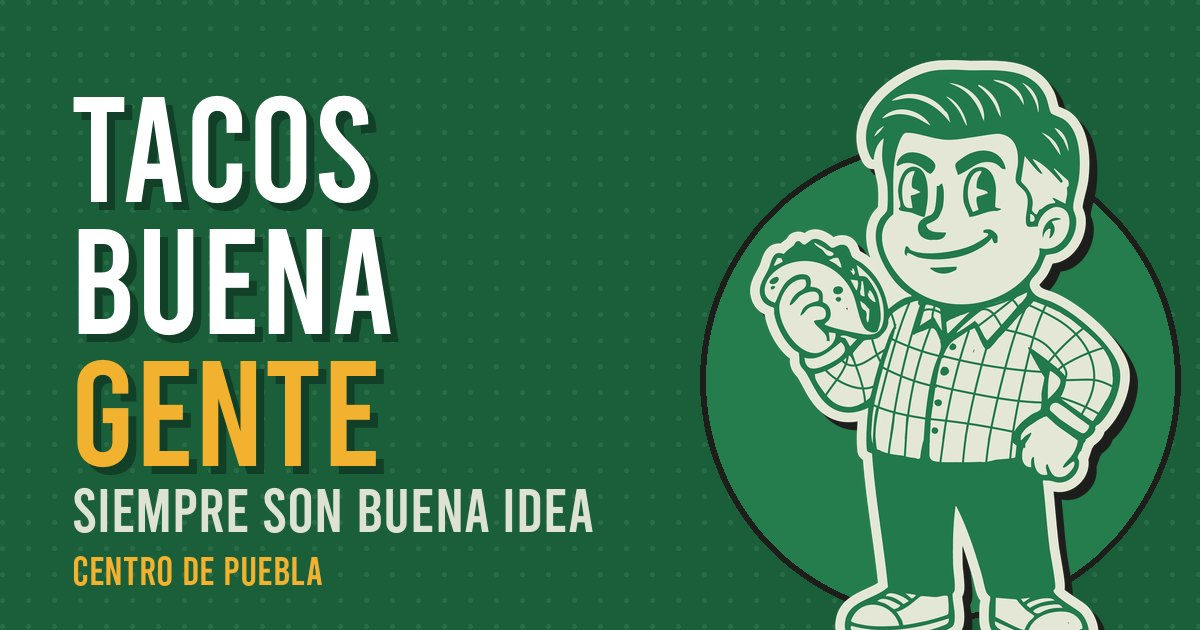
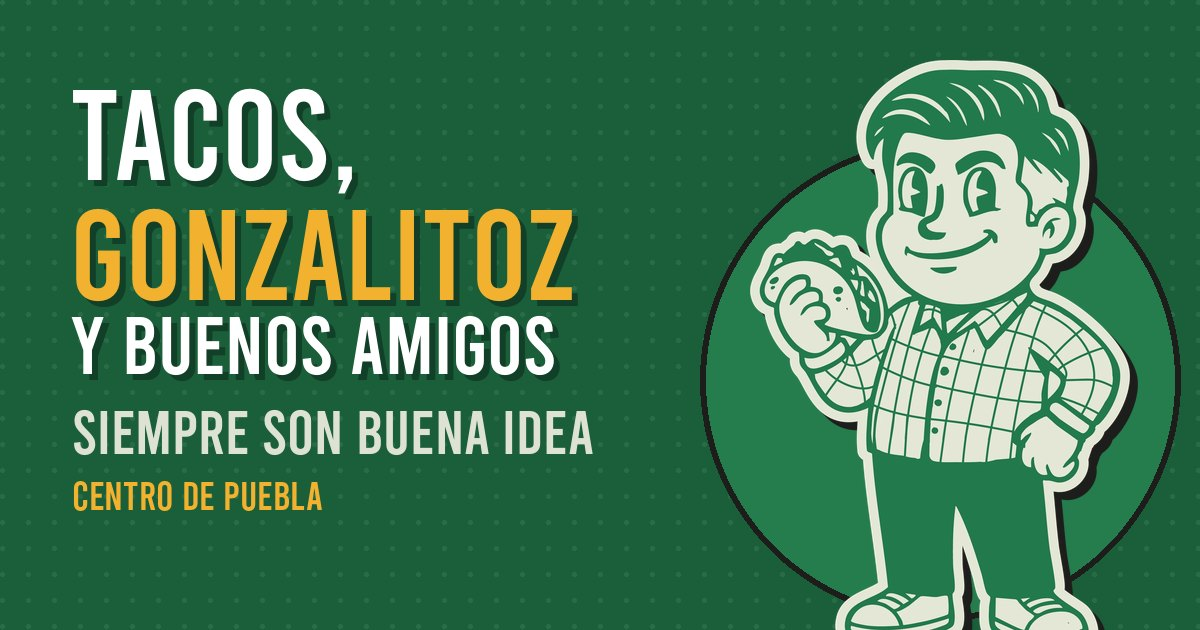
Barra flotante verde, nuevo eslogan, menú desplegable, fotos del local sin textos

Changed region(s): [[0.0617, 0.1206, 0.4933, 0.8444], [0.0617, 0.8746, 0.2775, 0.9349]]

diff --git a/index.html b/index.html
@@ -3,7 +3,7 @@
 <head>
 <meta charset="utf-8">
 <meta name="viewport" content="width=device-width, initial-scale=1, viewport-fit=cover">
-<title>GONZALITOZ · Tacos buena gente en Puebla</title>
+<title>GONZALITOZ · Taquería en el Centro de Puebla</title>
 <meta name="description" content="Taquería GONZALITOZ en el Centro de Puebla: tacos y cemitas con la receta tradicional y sabores para atreverte. Argentino, asada, chile quemado, esquinero y sierra.">
 <meta name="theme-color" content="#1B5E3A">
 <link rel="canonical" href="https://gonzalitoz.online/">
@@ -11,7 +11,7 @@
 <link rel="apple-touch-icon" href="img/apple-touch-icon.png">
 <meta property="og:type" content="restaurant">
 <meta property="og:site_name" content="GONZALITOZ">
-<meta property="og:title" content="GONZALITOZ · Tacos buena gente">
+<meta property="og:title" content="GONZALITOZ · Tacos, GONZALITOZ y buenos amigos siempre son buena idea">
 <meta property="og:description" content="Tacos y cemitas en el Centro de Puebla. Siempre son buena idea.">
 <meta property="og:url" content="https://gonzalitoz.online/">
 <meta property="og:image" content="https://gonzalitoz.online/img/compartir.jpg">
@@ -20,23 +20,24 @@
 <meta property="og:locale" content="es_MX">
 <meta name="twitter:card" content="summary_large_image">
 <link rel="preload" href="fuentes/bebas-neue.woff2" as="font" type="font/woff2" crossorigin>
-<link rel="stylesheet" href="css/sitio.css?v=0c2567af">
-<script type="application/ld+json">{"@context": "https://schema.org", "@type": "Restaurant", "name": "GONZALITOZ Taquería", "url": "https://gonzalitoz.online/", "image": "https://gonzalitoz.online/img/compartir.jpg", "logo": "https://gonzalitoz.online/img/insignia.webp", "slogan": "Tacos buena gente. Siempre son buena idea.", "telephone": "+52 221 281 8023", "priceRange": "$", "openingHoursSpecification": [{"@type": "OpeningHoursSpecification", "opens": "10:00", "closes": "17:30", "dayOfWeek": ["Monday", "Tuesday", "Wednesday", "Friday", "Saturday", "Sunday"]}], "servesCuisine": ["Mexicana", "Tacos", "Cemitas"], "hasMap": "https://maps.app.goo.gl/9LSrEYEsU7V94Uzn7", "sameAs": ["https://www.instagram.com/gonzalitoztaqueria/", "https://www.tiktok.com/@gonzalitoz.taquer"], "address": {"@type": "PostalAddress", "streetAddress": "Calle 9 Sur 707, Local 4", "addressLocality": "Heroica Puebla de Zaragoza", "addressRegion": "Puebla", "postalCode": "72000", "addressCountry": "MX"}, "hasMenu": {"@type": "Menu", "hasMenuSection": [{"@type": "MenuSection", "name": "Tacos", "hasMenuItem": [{"@type": "MenuItem", "name": "Taco Argentino", "description": "Chorizo argentino asado con guacamole, cebolla, cilantro y chimichurri.", "offers": {"@type": "Offer", "price": "30.00", "priceCurrency": "MXN"}}, {"@type": "MenuItem", "name": "Taco Asada", "description": "Carne de res asada con guacamole, cebolla y cilantro.", "offers": {"@type": "Offer", "price": "34.00", "priceCurrency": "MXN"}}, {"@type": "MenuItem", "name": "Taco Chile quemado", "description": "Chuleta de cerdo en salsa de chile quemado, con aderezo de cacahuate y cebolla encurtida.", "offers": {"@type": "Offer", "price": "27.00", "priceCurrency": "MXN"}}, {"@type": "MenuItem", "name": "Taco Esquinero", "description": "Chuleta de cerdo asada con guacamole, cebolla y cilantro, en tortilla mediana.", "offers": {"@type": "Offer", "price": "27.00", "priceCurrency": "MXN"}}, {"@type": "MenuItem", "name": "Taco Sierra", "description": "Chuleta de cerdo asada con papa, aderezo de cacahuate y salsa macha.", "offers": {"@type": "Offer", "price": "30.00", "priceCurrency": "MXN"}}]}, {"@type": "MenuSection", "name": "Cemitas", "hasMenuItem": [{"@type": "MenuItem", "name": "Cemita Argentino", "description": "Chorizo argentino asado con mayonesa, cebolla encurtida y chimichurri.", "offers": {"@type": "Offer", "price": "45.00", "priceCurrency": "MXN"}}, {"@type": "MenuItem", "name": "Cemita Asada", "description": "Carne de res asada con guacamole, cebolla y cilantro.", "offers": {"@type": "Offer", "price": "48.00", "priceCurrency": "MXN"}}, {"@type": "MenuItem", "name": "Cemita Chile quemado", "description": "Chuleta de cerdo en salsa de chile quemado, con aderezo de cacahuate y cebolla encurtida.", "offers": {"@type": "Offer", "price": "45.00", "priceCurrency": "MXN"}}, {"@type": "MenuItem", "name": "Cemita Esquinero", "description": "Chuleta de cerdo asada con guacamole, cebolla y cilantro.", "offers": {"@type": "Offer", "price": "45.00", "priceCurrency": "MXN"}}, {"@type": "MenuItem", "name": "Cemita Sierra", "description": "Chuleta de cerdo asada con papa, aderezo de cacahuate y salsa macha.", "offers": {"@type": "Offer", "price": "48.00", "priceCurrency": "MXN"}}]}]}}</script>
+<link rel="stylesheet" href="css/sitio.css?v=a0d848a5">
+<script type="application/ld+json">{"@context": "https://schema.org", "@type": "Restaurant", "name": "GONZALITOZ Taquería", "url": "https://gonzalitoz.online/", "image": "https://gonzalitoz.online/img/compartir.jpg", "logo": "https://gonzalitoz.online/img/insignia.webp", "slogan": "Tacos, GONZALITOZ y buenos amigos siempre son buena idea.", "telephone": "+52 221 281 8023", "priceRange": "$", "openingHoursSpecification": [{"@type": "OpeningHoursSpecification", "opens": "10:00", "closes": "17:30", "dayOfWeek": ["Monday", "Tuesday", "Wednesday", "Friday", "Saturday", "Sunday"]}], "servesCuisine": ["Mexicana", "Tacos", "Cemitas"], "hasMap": "https://maps.app.goo.gl/9LSrEYEsU7V94Uzn7", "sameAs": ["https://www.instagram.com/gonzalitoztaqueria/", "https://www.tiktok.com/@gonzalitoz.taquer"], "address": {"@type": "PostalAddress", "streetAddress": "Calle 9 Sur 707, Local 4", "addressLocality": "Heroica Puebla de Zaragoza", "addressRegion": "Puebla", "postalCode": "72000", "addressCountry": "MX"}, "hasMenu": {"@type": "Menu", "hasMenuSection": [{"@type": "MenuSection", "name": "Tacos", "hasMenuItem": [{"@type": "MenuItem", "name": "Taco Argentino", "description": "Chorizo argentino asado con guacamole, cebolla, cilantro y chimichurri.", "offers": {"@type": "Offer", "price": "30.00", "priceCurrency": "MXN"}}, {"@type": "MenuItem", "name": "Taco Asada", "description": "Carne de res asada con guacamole, cebolla y cilantro.", "offers": {"@type": "Offer", "price": "34.00", "priceCurrency": "MXN"}}, {"@type": "MenuItem", "name": "Taco Chile quemado", "description": "Chuleta de cerdo en salsa de chile quemado, con aderezo de cacahuate y cebolla encurtida.", "offers": {"@type": "Offer", "price": "27.00", "priceCurrency": "MXN"}}, {"@type": "MenuItem", "name": "Taco Esquinero", "description": "Chuleta de cerdo asada con guacamole, cebolla y cilantro, en tortilla mediana.", "offers": {"@type": "Offer", "price": "27.00", "priceCurrency": "MXN"}}, {"@type": "MenuItem", "name": "Taco Sierra", "description": "Chuleta de cerdo asada con papa, aderezo de cacahuate y salsa macha.", "offers": {"@type": "Offer", "price": "30.00", "priceCurrency": "MXN"}}]}, {"@type": "MenuSection", "name": "Cemitas", "hasMenuItem": [{"@type": "MenuItem", "name": "Cemita Argentino", "description": "Chorizo argentino asado con mayonesa, cebolla encurtida y chimichurri.", "offers": {"@type": "Offer", "price": "45.00", "priceCurrency": "MXN"}}, {"@type": "MenuItem", "name": "Cemita Asada", "description": "Carne de res asada con guacamole, cebolla y cilantro.", "offers": {"@type": "Offer", "price": "48.00", "priceCurrency": "MXN"}}, {"@type": "MenuItem", "name": "Cemita Chile quemado", "description": "Chuleta de cerdo en salsa de chile quemado, con aderezo de cacahuate y cebolla encurtida.", "offers": {"@type": "Offer", "price": "45.00", "priceCurrency": "MXN"}}, {"@type": "MenuItem", "name": "Cemita Esquinero", "description": "Chuleta de cerdo asada con guacamole, cebolla y cilantro.", "offers": {"@type": "Offer", "price": "45.00", "priceCurrency": "MXN"}}, {"@type": "MenuItem", "name": "Cemita Sierra", "description": "Chuleta de cerdo asada con papa, aderezo de cacahuate y salsa macha.", "offers": {"@type": "Offer", "price": "48.00", "priceCurrency": "MXN"}}]}]}}</script>
 </head>
 <body>
 <a class="saltar" href="#especialidades">Saltar al menú</a>
 
 <header class="barra" id="barra">
   <div class="barra-in">
-    <a class="barra-logo" href="#inicio" aria-label="GONZALITOZ, inicio"><img src="img/wordmark.webp" alt="GONZALITOZ Taquería" width="180" height="44"></a>
+    <a class="barra-logo" href="#inicio" aria-label="GONZALITOZ, inicio"><img src="img/wordmark-claro.webp" alt="GONZALITOZ Taquería" width="180" height="44"></a>
     <nav class="barra-nav" id="nav" aria-label="Secciones">
+      <span class="barra-marca" id="barraMarca" aria-hidden="true"></span>
       <a href="#especialidades">Especialidades</a>
       <a href="#menu">Menú</a>
       <a href="#nosotros">Nosotros</a>
       <a href="#local">El local</a>
       <a href="#visitanos">Visítanos</a>
     </nav>
-    <a class="btn btn-dorado barra-cta" href="https://maps.app.goo.gl/9LSrEYEsU7V94Uzn7" target="_blank" rel="noopener">Cómo llegar</a>
+    <a class="btn btn-dorado barra-cta" href="#menu">Ver menú</a>
     <button class="barra-menu" id="botonMenu" type="button" aria-expanded="false" aria-controls="nav" aria-label="Abrir menú"><span></span><span></span><span></span></button>
   </div>
 </header>
@@ -47,7 +48,7 @@
     <div class="portada-in">
       <div class="portada-txt">
         <p class="eyebrow">Taquería · Centro de Puebla</p>
-        <h1 class="titular"><span class="linea">Tacos</span> <span class="linea">buena</span> <span class="linea linea-dorada">gente</span></h1>
+        <h1 class="titular"><span class="linea">Tacos,</span> <span class="linea linea-dorada">GONZALITOZ</span> <span class="linea linea-chica">y buenos amigos</span></h1>
         <p class="lema">Siempre son buena idea.</p>
         <p class="intro">Tacos y cemitas con la receta de siempre y cinco sabores para atreverte: argentino, asada, chile quemado, esquinero y sierra.</p>
         <div class="acciones">
@@ -58,7 +59,7 @@
       <div class="portada-arte" aria-hidden="true">
         <div class="mancha"></div>
         <img class="taquero" src="img/taquero.webp" alt="" width="600" height="948">
-        <span class="globo">¡Buena gente!</span>
+        <span class="globo">¡Date un antojo!</span>
         <img class="sticker sticker-a" src="img/p/taco-sierra-600.webp" alt="" width="300" height="300">
         <img class="sticker sticker-b" src="img/p/cemita-argentina-600.webp" alt="" width="300" height="300">
       </div>
@@ -66,7 +67,7 @@
   </section>
 
   <div class="cinta" aria-hidden="true">
-    <div class="cinta-pista"><span>Tacos buena gente<img src="img/isotipo.webp" alt="" width="30" height="30"></span><span>Siempre son buena idea<img src="img/isotipo.webp" alt="" width="30" height="30"></span><span>Argentino<img src="img/isotipo.webp" alt="" width="30" height="30"></span><span>Asada<img src="img/isotipo.webp" alt="" width="30" height="30"></span><span>Chile quemado<img src="img/isotipo.webp" alt="" width="30" height="30"></span><span>Esquinero<img src="img/isotipo.webp" alt="" width="30" height="30"></span><span>Sierra<img src="img/isotipo.webp" alt="" width="30" height="30"></span><span>Tacos buena gente<img src="img/isotipo.webp" alt="" width="30" height="30"></span><span>Siempre son buena idea<img src="img/isotipo.webp" alt="" width="30" height="30"></span><span>Argentino<img src="img/isotipo.webp" alt="" width="30" height="30"></span><span>Asada<img src="img/isotipo.webp" alt="" width="30" height="30"></span><span>Chile quemado<img src="img/isotipo.webp" alt="" width="30" height="30"></span><span>Esquinero<img src="img/isotipo.webp" alt="" width="30" height="30"></span><span>Sierra<img src="img/isotipo.webp" alt="" width="30" height="30"></span></div>
+    <div class="cinta-pista"><span>Tacos, GONZALITOZ y buenos amigos<img src="img/isotipo.webp" alt="" width="30" height="30"></span><span>Siempre son buena idea<img src="img/isotipo.webp" alt="" width="30" height="30"></span><span>Argentino<img src="img/isotipo.webp" alt="" width="30" height="30"></span><span>Asada<img src="img/isotipo.webp" alt="" width="30" height="30"></span><span>Chile quemado<img src="img/isotipo.webp" alt="" width="30" height="30"></span><span>Esquinero<img src="img/isotipo.webp" alt="" width="30" height="30"></span><span>Sierra<img src="img/isotipo.webp" alt="" width="30" height="30"></span><span>Tacos, GONZALITOZ y buenos amigos<img src="img/isotipo.webp" alt="" width="30" height="30"></span><span>Siempre son buena idea<img src="img/isotipo.webp" alt="" width="30" height="30"></span><span>Argentino<img src="img/isotipo.webp" alt="" width="30" height="30"></span><span>Asada<img src="img/isotipo.webp" alt="" width="30" height="30"></span><span>Chile quemado<img src="img/isotipo.webp" alt="" width="30" height="30"></span><span>Esquinero<img src="img/isotipo.webp" alt="" width="30" height="30"></span><span>Sierra<img src="img/isotipo.webp" alt="" width="30" height="30"></span></div>
   </div>
 
   <!-- ESPECIALIDADES -->
@@ -91,10 +92,10 @@
     <div class="envoltura">
       <div class="seccion-cab seccion-cab-clara">
         <p class="eyebrow">El menú</p>
-        <h2 class="h2">Lo que hay en el pizarrón</h2>
-        <p class="sub">Precios en pesos mexicanos, con IVA incluido.</p>
+        <h2 class="h2">¿Qué se te antoja?</h2>
+        <p class="sub">Toca cada sección para ver sus platillos. Precios en pesos mexicanos, con IVA incluido.</p>
       </div>
-      <div class="pizarron"><div class="columna"><h3>Tacos</h3><p class="columna-nota">Todos se pueden pedir con 2 ingredientes, al mismo precio.</p><div class="platillo"><span class="platillo-n">Argentino</span><span class="platillo-p">$30</span><span class="platillo-d">Chorizo argentino asado con guacamole, cebolla, cilantro y chimichurri.</span></div><div class="platillo"><span class="platillo-n">Asada</span><span class="platillo-p">$34</span><span class="platillo-d">Carne de res asada con guacamole, cebolla y cilantro.</span></div><div class="platillo"><span class="platillo-n">Chile quemado</span><span class="platillo-p">$27</span><span class="platillo-d">Chuleta de cerdo en salsa de chile quemado, con aderezo de cacahuate y cebolla encurtida.</span></div><div class="platillo"><span class="platillo-n">Esquinero</span><span class="platillo-p">$27</span><span class="platillo-d">Chuleta de cerdo asada con guacamole, cebolla y cilantro, en tortilla mediana.</span></div><div class="platillo"><span class="platillo-n">Sierra</span><span class="platillo-p">$30</span><span class="platillo-d">Chuleta de cerdo asada con papa, aderezo de cacahuate y salsa macha.</span></div></div><div class="columna"><h3>Cemitas</h3><p class="columna-nota">Todos se pueden pedir con 2 ingredientes, al mismo precio.</p><div class="platillo"><span class="platillo-n">Argentino</span><span class="platillo-p">$45</span><span class="platillo-d">Chorizo argentino asado con mayonesa, cebolla encurtida y chimichurri.</span></div><div class="platillo"><span class="platillo-n">Asada</span><span class="platillo-p">$48</span><span class="platillo-d">Carne de res asada con guacamole, cebolla y cilantro.</span></div><div class="platillo"><span class="platillo-n">Chile quemado</span><span class="platillo-p">$45</span><span class="platillo-d">Chuleta de cerdo en salsa de chile quemado, con aderezo de cacahuate y cebolla encurtida.</span></div><div class="platillo"><span class="platillo-n">Esquinero</span><span class="platillo-p">$45</span><span class="platillo-d">Chuleta de cerdo asada con guacamole, cebolla y cilantro.</span></div><div class="platillo"><span class="platillo-n">Sierra</span><span class="platillo-p">$48</span><span class="platillo-d">Chuleta de cerdo asada con papa, aderezo de cacahuate y salsa macha.</span></div></div><div class="columna"><h3>Para acompañar</h3><div class="platillo"><span class="platillo-n">Papas fritas</span><span class="platillo-p">$25</span><span class="platillo-d">La orden, para acompañar.</span></div><div class="platillo"><span class="platillo-n">Aguas frescas</span><span class="platillo-p">$35</span><span class="platillo-d">Pregunta por los sabores del día.</span></div><div class="platillo"><span class="platillo-n">Refrescos</span><span class="platillo-p">$35</span><span class="platillo-d">Varios sabores.</span></div></div></div>
+      <div class="carta" id="carta"><details class="cat" open><summary><span class="cat-n">Argentino</span><span class="cat-desde">desde <b>$30</b></span><span class="cat-flecha" aria-hidden="true"></span></summary><div class="cat-platos"><article class="plato"><div class="plato-foto"><img src="img/p/taco-argentino-600.webp" alt="Taco Argentino" loading="lazy" width="600" height="600"><span class="plato-precio">$30</span></div><div class="plato-cuerpo"><h4>Taco Argentino</h4><p>Chorizo argentino asado con guacamole, cebolla, cilantro y chimichurri.</p><span class="plato-2">Con 2 ingredientes <b>$30</b></span></div></article><article class="plato"><div class="plato-foto"><img src="img/p/cemita-argentina-600.webp" alt="Cemita Argentino" loading="lazy" width="600" height="600"><span class="plato-precio">$45</span></div><div class="plato-cuerpo"><h4>Cemita Argentino</h4><p>Chorizo argentino asado con mayonesa, cebolla encurtida y chimichurri.</p><span class="plato-2">Con 2 ingredientes <b>$45</b></span></div></article></div></details><details class="cat" ><summary><span class="cat-n">Asada</span><span class="cat-desde">desde <b>$34</b></span><span class="cat-flecha" aria-hidden="true"></span></summary><div class="cat-platos"><article class="plato"><div class="plato-foto"><img src="img/p/taco-asada-600.webp" alt="Taco Asada" loading="lazy" width="600" height="600"><span class="plato-precio">$34</span></div><div class="plato-cuerpo"><h4>Taco Asada</h4><p>Carne de res asada con guacamole, cebolla y cilantro.</p><span class="plato-2">Con 2 ingredientes <b>$34</b></span></div></article><article class="plato"><div class="plato-foto"><img src="img/p/cemita-asada-600.webp" alt="Cemita Asada" loading="lazy" width="600" height="600"><span class="plato-precio">$48</span></div><div class="plato-cuerpo"><h4>Cemita Asada</h4><p>Carne de res asada con guacamole, cebolla y cilantro.</p><span class="plato-2">Con 2 ingredientes <b>$48</b></span></div></article></div></details><details class="cat" ><summary><span class="cat-n">Chile quemado</span><span class="cat-desde">desde <b>$27</b></span><span class="cat-flecha" aria-hidden="true"></span></summary><div class="cat-platos"><article class="plato"><div class="plato-foto"><img src="img/p/taco-chile-quemado-600.webp" alt="Taco Chile quemado" loading="lazy" width="600" height="600"><span class="plato-precio">$27</span></div><div class="plato-cuerpo"><h4>Taco Chile quemado</h4><p>Chuleta de cerdo en salsa de chile quemado, con aderezo de cacahuate y cebolla encurtida.</p><span class="plato-2">Con 2 ingredientes <b>$27</b></span></div></article><article class="plato"><div class="plato-foto"><img src="img/p/cemita-chile-quemado-600.webp" alt="Cemita Chile quemado" loading="lazy" width="600" height="600"><span class="plato-precio">$45</span></div><div class="plato-cuerpo"><h4>Cemita Chile quemado</h4><p>Chuleta de cerdo en salsa de chile quemado, con aderezo de cacahuate y cebolla encurtida.</p><span class="plato-2">Con 2 ingredientes <b>$45</b></span></div></article></div></details><details class="cat" ><summary><span class="cat-n">Esquinero</span><span class="cat-desde">desde <b>$27</b></span><span class="cat-flecha" aria-hidden="true"></span></summary><div class="cat-platos"><article class="plato"><div class="plato-foto"><img src="img/p/taco-esquinero-600.webp" alt="Taco Esquinero" loading="lazy" width="600" height="600"><span class="plato-precio">$27</span></div><div class="plato-cuerpo"><h4>Taco Esquinero</h4><p>Chuleta de cerdo asada con guacamole, cebolla y cilantro.</p><span class="plato-2">Con 2 ingredientes <b>$27</b></span></div></article><article class="plato"><div class="plato-foto"><img src="img/p/cemita-esquinera-600.webp" alt="Cemita Esquinero" loading="lazy" width="600" height="600"><span class="plato-precio">$45</span></div><div class="plato-cuerpo"><h4>Cemita Esquinero</h4><p>Chuleta de cerdo asada con guacamole, cebolla y cilantro.</p><span class="plato-2">Con 2 ingredientes <b>$45</b></span></div></article></div></details><details class="cat" ><summary><span class="cat-n">Sierra</span><span class="cat-desde">desde <b>$30</b></span><span class="cat-flecha" aria-hidden="true"></span></summary><div class="cat-platos"><article class="plato"><div class="plato-foto"><img src="img/p/taco-sierra-600.webp" alt="Taco Sierra" loading="lazy" width="600" height="600"><span class="plato-precio">$30</span></div><div class="plato-cuerpo"><h4>Taco Sierra</h4><p>Chuleta de cerdo asada con papa, aderezo de cacahuate y salsa macha.</p><span class="plato-2">Con 2 ingredientes <b>$30</b></span></div></article><article class="plato"><div class="plato-foto"><img src="img/p/cemita-sierra-600.webp" alt="Cemita Sierra" loading="lazy" width="600" height="600"><span class="plato-precio">$48</span></div><div class="plato-cuerpo"><h4>Cemita Sierra</h4><p>Chuleta de cerdo asada con papa, aderezo de cacahuate y salsa macha.</p><span class="plato-2">Con 2 ingredientes <b>$48</b></span></div></article></div></details><details class="cat" ><summary><span class="cat-n">Para acompañar</span><span class="cat-desde">desde <b>$25</b></span><span class="cat-flecha" aria-hidden="true"></span></summary><div class="cat-platos"><article class="plato"><div class="plato-foto"><img src="img/p/papas-fritas-600.webp" alt="Papas fritas" loading="lazy" width="600" height="600"><span class="plato-precio">$25</span></div><div class="plato-cuerpo"><h4>Papas fritas</h4><p>La orden, para acompañar.</p></div></article><article class="plato"><div class="plato-foto"><img src="img/p/aguas-frescas-600.webp" alt="Aguas frescas" loading="lazy" width="600" height="600"><span class="plato-precio">$35</span></div><div class="plato-cuerpo"><h4>Aguas frescas</h4><p>Pregunta por los sabores del día.</p></div></article><article class="plato"><div class="plato-foto"><img class="sin-foto" src="img/isotipo.webp" alt="" loading="lazy" width="80" height="80"><span class="plato-precio">$35</span></div><div class="plato-cuerpo"><h4>Refrescos</h4><p>Varios sabores.</p></div></article></div></details></div>
     </div>
   </section>
 
@@ -104,7 +105,7 @@
       <div class="nosotros-txt">
         <p class="eyebrow eyebrow-verde">Nosotros</p>
         <h2 class="h2">Lo de aquí, con experiencia de primera</h2>
-        <p>GONZALITOZ nació en Puebla de un sueño: que comer tacos mexicanos se viva con el mismo cuidado, la misma rapidez y el mismo orden que en las grandes cadenas de comida rápida.</p>
+        <p>GONZALITOZ nació en Puebla de un sueño: que comer tacos se viva con el mismo cuidado, la misma rapidez y el mismo orden que en las grandes cadenas de comida rápida.</p>
         <p>No venimos a ocupar el lugar de la taquería de tu barrio. Queremos que, cuando se te antoje una cadena, la mejor opción sea una mexicana, hecha con producto de aquí.</p>
         <p>Por eso cuidamos cada detalle, de la receta tradicional a la forma en que te atendemos, y le sumamos sabores nuevos para que siempre tengas algo que probar.</p>
       </div>
@@ -125,11 +126,11 @@
         <p class="sub">Así se ve GONZALITOZ en la Calle 9 Sur, en el Centro de Puebla.</p>
       </div>
       <div class="galeria">
-        <figure class="foto foto-grande"><img src="img/local/barra-clientes-900.webp" srcset="img/local/barra-clientes-900.webp 900w, img/local/barra-clientes-1400.webp 1400w" sizes="(max-width: 700px) 92vw, 45vw" alt="Clientes comiendo en la barra de GONZALITOZ" loading="lazy" width="900" height="1528"><figcaption>La barra</figcaption></figure>
-        <figure class="foto"><img src="img/local/entrada-900.webp" sizes="(max-width: 700px) 92vw, 25vw" srcset="img/local/entrada-900.webp 900w, img/local/entrada-1400.webp 1400w" alt="La entrada con el taquero en la puerta de vidrio" loading="lazy" width="900" height="1110"><figcaption>La entrada</figcaption></figure>
-        <figure class="foto"><img src="img/local/gorra-900.webp" sizes="(max-width: 700px) 92vw, 25vw" srcset="img/local/gorra-900.webp 900w, img/local/gorra-1400.webp 1400w" alt="Gorra verde de GONZALITOZ sobre la barra de azulejo blanco" loading="lazy" width="900" height="1338"><figcaption>Buena gente</figcaption></figure>
-        <figure class="foto"><img src="img/local/cliente-barra-900.webp" sizes="(max-width: 700px) 92vw, 25vw" srcset="img/local/cliente-barra-900.webp 900w, img/local/cliente-barra-1400.webp 1400w" alt="Cliente con playera de GONZALITOZ en la barra" loading="lazy" width="900" height="1462"><figcaption>Tu lugar</figcaption></figure>
-        <figure class="foto"><img src="img/local/pasillo-900.webp" sizes="(max-width: 700px) 92vw, 25vw" srcset="img/local/pasillo-900.webp 900w, img/local/pasillo-1400.webp 1400w" alt="La barra larga con bancos de madera" loading="lazy" width="900" height="1451"><figcaption>La barra larga</figcaption></figure>
+        <figure class="foto foto-grande"><img src="img/local/barra-clientes-900.webp" srcset="img/local/barra-clientes-900.webp 900w, img/local/barra-clientes-1400.webp 1400w" sizes="(max-width: 700px) 92vw, 45vw" alt="Clientes comiendo en la barra de GONZALITOZ" loading="lazy" width="900" height="1528"></figure>
+        <figure class="foto"><img src="img/local/entrada-900.webp" sizes="(max-width: 700px) 92vw, 25vw" srcset="img/local/entrada-900.webp 900w, img/local/entrada-1400.webp 1400w" alt="La entrada con el taquero en la puerta de vidrio" loading="lazy" width="900" height="1110"></figure>
+        <figure class="foto"><img src="img/local/gorra-900.webp" sizes="(max-width: 700px) 92vw, 25vw" srcset="img/local/gorra-900.webp 900w, img/local/gorra-1400.webp 1400w" alt="Gorra verde de GONZALITOZ sobre la barra de azulejo blanco" loading="lazy" width="900" height="1338"></figure>
+        <figure class="foto"><img src="img/local/cliente-barra-900.webp" sizes="(max-width: 700px) 92vw, 25vw" srcset="img/local/cliente-barra-900.webp 900w, img/local/cliente-barra-1400.webp 1400w" alt="Cliente con playera de GONZALITOZ en la barra" loading="lazy" width="900" height="1462"></figure>
+        <figure class="foto"><img src="img/local/pasillo-900.webp" sizes="(max-width: 700px) 92vw, 25vw" srcset="img/local/pasillo-900.webp 900w, img/local/pasillo-1400.webp 1400w" alt="La barra larga con bancos de madera" loading="lazy" width="900" height="1451"></figure>
       </div>
     </div>
   </section>
@@ -180,13 +181,13 @@
   <div class="envoltura pie-in">
     <img class="pie-insignia" src="img/sello-circular.webp" alt="GONZALITOZ Taquería" width="160" height="165" loading="lazy">
     <div class="pie-txt">
-      <p class="pie-lema">Tacos buena gente. Siempre son buena idea.</p>
+      <p class="pie-lema">Tacos, GONZALITOZ y buenos amigos siempre son buena idea.</p>
       <p>Calle 9 Sur 707, Local 4, Col. Centro, Puebla, Pue. · Viernes a miércoles, 10:00 a. m. – 5:30 p. m. (jueves descansamos)</p>
       <p class="pie-mini">© <span id="anio">2026</span> GONZALITOZ Taquería. Hecho en Puebla.</p>
     </div>
   </div>
 </footer>
 
-<script src="js/sitio.js?v=0c2567af" defer></script>
+<script src="js/sitio.js?v=a0d848a5" defer></script>
 </body>
 </html>

diff --git a/css/sitio.css b/css/sitio.css
@@ -18,7 +18,7 @@
   /* tipo */
   --f-titulo: "Bebas", "Bebas Neue", "Oswald", Impact, "Arial Narrow", sans-serif;
   --f-texto: "Inter", system-ui, -apple-system, "Segoe UI", Roboto, sans-serif;
-  --t-h1: clamp(4.2rem, 13vw, 9.5rem);
+  --t-h1: clamp(3.3rem, 8.4vw, 6.6rem);
   --t-h2: clamp(2.4rem, 6vw, 4rem);
   --t-h3: 1.6rem;
   --t-cuerpo: 1.0625rem;
@@ -32,7 +32,7 @@
 }
 
 * { box-sizing: border-box; }
-html { scroll-behavior: smooth; scroll-padding-top: 84px; -webkit-text-size-adjust: 100%; }
+html { scroll-behavior: smooth; scroll-padding-top: 100px; -webkit-text-size-adjust: 100%; }
 body { margin: 0; background: var(--blanco); color: var(--negro); font: 400 var(--t-cuerpo)/1.6 var(--f-texto); overflow-x: hidden; }
 img { max-width: 100%; height: auto; display: block; }
 a { color: inherit; }
@@ -60,19 +60,27 @@ p { margin: 0; }
 .btn-borde { background: var(--blanco); color: var(--negro); }
 .acciones { display: flex; flex-wrap: wrap; gap: 14px; }
 
-/* ---------- barra superior ---------- */
-body::before { content: ""; position: fixed; inset: 0 0 auto; height: env(safe-area-inset-top, 0px); z-index: 60; background: var(--blanco); }
-.barra { position: sticky; top: env(safe-area-inset-top, 0px); z-index: 50; background: var(--blanco); border-bottom: var(--contorno); }
-.barra-in { max-width: var(--ancho); margin: 0 auto; display: flex; align-items: center; gap: 24px; min-height: 70px;
-            padding-left: max(20px, env(safe-area-inset-left, 0px)); padding-right: max(20px, env(safe-area-inset-right, 0px)); }
-.barra-logo img { width: 168px; }
-.barra-nav { display: flex; gap: 6px; margin-left: auto; }
-.barra-nav a { font-weight: 700; text-decoration: none; padding: 8px 12px; border-radius: 999px; }
-.barra-nav a:hover, .barra-nav a.activo { background: var(--crema); }
-.barra-cta { min-height: 44px; padding: 10px 18px; }
-.barra-menu { display: none; margin-left: auto; width: 46px; height: 46px; border: var(--contorno); border-radius: 12px; background: var(--dorado);
-              flex-direction: column; justify-content: center; align-items: center; gap: 5px; cursor: pointer; box-shadow: 3px 3px 0 var(--negro); }
-.barra-menu span { width: 20px; height: 3px; background: var(--negro); border-radius: 2px; transition: transform .2s; }
+/* ---------- barra flotante (isla verde): se separa de los bordes, se esconde al bajar y vuelve al subir ---------- */
+.barra { position: fixed; z-index: 50; left: 0; right: 0; top: calc(env(safe-area-inset-top, 0px) + 14px);
+         padding-left: max(14px, env(safe-area-inset-left, 0px)); padding-right: max(14px, env(safe-area-inset-right, 0px));
+         transition: transform .35s cubic-bezier(.2, .8, .2, 1); pointer-events: none; }
+.barra.escondida { transform: translateY(calc(-100% - 30px)); }
+.barra-in { pointer-events: auto; max-width: 1040px; margin: 0 auto; display: flex; align-items: center; gap: 18px; min-height: 64px;
+            padding: 8px 8px 8px 22px; background: var(--verde-noche); color: var(--crema-claro); border: var(--contorno); border-radius: 999px;
+            box-shadow: 5px 5px 0 var(--negro); transition: min-height .25s ease, box-shadow .25s ease; }
+.barra.compacta .barra-in { min-height: 56px; box-shadow: 3px 3px 0 var(--negro); }
+.barra-logo img { width: 150px; transition: width .25s ease; }
+.barra.compacta .barra-logo img { width: 128px; }
+.barra-nav { position: relative; display: flex; gap: 2px; margin-left: auto; }
+.barra-nav a { position: relative; z-index: 1; font-weight: 700; font-size: .95rem; text-decoration: none; padding: 10px 14px; border-radius: 999px; color: var(--crema); transition: color .2s; }
+.barra-nav a:hover { color: var(--blanco); }
+.barra-nav a.activo { color: var(--negro); }
+.barra-marca { position: absolute; z-index: 0; top: 0; height: 100%; border-radius: 999px; background: var(--dorado); transition: left .3s cubic-bezier(.2, .8, .2, 1), width .3s cubic-bezier(.2, .8, .2, 1), opacity .2s; opacity: 0; }
+.barra-cta { min-height: 46px; padding: 10px 20px; box-shadow: none; border-width: 2px; }
+.barra-cta:hover { box-shadow: none; transform: none; background: var(--crema-claro); }
+.barra-menu { display: none; margin-left: auto; width: 48px; height: 48px; border: 2px solid var(--negro); border-radius: 50%; background: var(--dorado);
+              flex-direction: column; justify-content: center; align-items: center; gap: 5px; cursor: pointer; }
+.barra-menu span { width: 20px; height: 3px; background: var(--negro); border-radius: 2px; transition: transform .25s, opacity .2s; }
 .barra-menu[aria-expanded="true"] span:nth-child(1) { transform: translateY(8px) rotate(45deg); }
 .barra-menu[aria-expanded="true"] span:nth-child(2) { opacity: 0; }
 .barra-menu[aria-expanded="true"] span:nth-child(3) { transform: translateY(-8px) rotate(-45deg); }
@@ -81,11 +89,12 @@ body::before { content: ""; position: fixed; inset: 0 0 auto; height: env(safe-a
 .portada { position: relative; background: var(--verde-hondo); color: var(--crema-claro); overflow: hidden; border-bottom: var(--contorno);
            background-image: radial-gradient(rgba(221,226,210,.09) 2px, transparent 2.5px); background-size: 26px 26px; }
 .portada-in { max-width: var(--ancho); margin: 0 auto; display: grid; grid-template-columns: 1.1fr .9fr; align-items: center; gap: 24px;
-              padding-left: max(20px, env(safe-area-inset-left, 0px)); padding-right: max(20px, env(safe-area-inset-right, 0px)); padding-block: 56px 0; }
+              padding-left: max(20px, env(safe-area-inset-left, 0px)); padding-right: max(20px, env(safe-area-inset-right, 0px)); padding-block: 130px 0; }
 .portada-txt { display: flex; flex-direction: column; gap: 18px; padding-bottom: 64px; min-width: 0; }
-.titular { font-size: var(--t-h1); color: var(--blanco); text-shadow: 5px 5px 0 var(--verde-noche); }
+.titular { font-size: var(--t-h1); color: var(--blanco); text-shadow: .05em .05em 0 var(--verde-noche); }
 .titular .linea { display: inline-block; }
 .linea-dorada { color: var(--dorado); }
+.titular .linea-chica { font-size: .62em; display: block; margin-top: .08em; }
 .lema { font: 400 clamp(1.7rem, 3.6vw, 2.4rem)/1 var(--f-titulo); color: var(--crema); letter-spacing: .02em; }
 .intro { max-width: 46ch; color: var(--crema); font-size: 1.1rem; }
 .portada-arte { position: relative; align-self: end; min-height: 520px; }
@@ -161,18 +170,31 @@ body::before { content: ""; position: fixed; inset: 0 0 auto; height: env(safe-a
          border-radius: 999px; box-shadow: var(--sombra-chica); width: fit-content; max-width: 100%; }
 .mitad img { width: 64px; height: 64px; border-radius: 50%; border: 2px solid var(--negro); background: var(--blanco); flex: none; }
 
-/* menú: el pizarrón */
-.pizarron { display: grid; grid-template-columns: 1fr 1fr 1fr; gap: 0; background: var(--negro); color: var(--crema-claro); border: 4px solid var(--negro);
-            border-radius: 22px; box-shadow: 10px 10px 0 var(--verde-noche); overflow: hidden; outline: 6px solid var(--dorado); outline-offset: -14px; }
-.columna { padding: 40px 34px; display: flex; flex-direction: column; gap: 20px; min-width: 0; }
-.columna + .columna { border-left: 2px dashed rgba(238,241,232,.18); }
-.columna h3 { font-size: 2.6rem; color: var(--dorado); }
-.columna-nota { font-size: .85rem; color: var(--crema); opacity: .75; margin-top: -10px; }
-.platillo { display: grid; grid-template-columns: 1fr auto; gap: 2px 14px; align-items: baseline; }
-.platillo-n { font: 400 1.45rem/1.05 var(--f-titulo); letter-spacing: .02em; }
-.platillo-p { font: 400 1.6rem/1 var(--f-titulo); color: var(--dorado); font-variant-numeric: tabular-nums; }
-.platillo-d { grid-column: 1 / -1; font-size: .86rem; line-height: 1.4; color: var(--crema); opacity: .8; }
-.platillo-n::after { content: ""; display: inline-block; }
+/* menú: secciones desplegables con tarjetas de foto (como el menú digital) */
+.carta { display: flex; flex-direction: column; gap: 16px; }
+.cat { background: var(--blanco); color: var(--negro); border: var(--contorno); border-radius: 22px; box-shadow: 7px 7px 0 var(--verde-noche); overflow: hidden; }
+.cat > summary { list-style: none; cursor: pointer; display: flex; align-items: center; gap: 16px; padding: 18px 22px; }
+.cat > summary::-webkit-details-marker { display: none; }
+.cat-n { font: 400 clamp(1.9rem, 4vw, 2.6rem)/1 var(--f-titulo); color: var(--verde); }
+.cat-desde { margin-left: auto; font-weight: 700; color: var(--tinta-suave); font-size: .9rem; white-space: nowrap; }
+.cat-desde b { color: var(--rojo); font: 400 1.5rem/1 var(--f-titulo); }
+.cat-flecha { width: 40px; height: 40px; flex: none; border-radius: 50%; border: 2px solid var(--negro); background: var(--dorado); position: relative; transition: transform .3s ease; }
+.cat-flecha::before { content: ""; position: absolute; left: 50%; top: 44%; width: 10px; height: 10px; border-right: 3px solid var(--negro); border-bottom: 3px solid var(--negro); transform: translate(-50%, -50%) rotate(45deg); }
+.cat[open] .cat-flecha { transform: rotate(180deg); }
+.cat[open] > summary { border-bottom: 2px dashed var(--crema); }
+.cat-platos { display: grid; grid-template-columns: repeat(auto-fill, minmax(230px, 1fr)); gap: 18px; padding: 20px 22px 24px; }
+@media (prefers-reduced-motion: no-preference) { .cat[open] .cat-platos { animation: aparecer .4s ease both; } }
+.plato { display: flex; flex-direction: column; border: 2px solid var(--negro); border-radius: 16px; overflow: hidden; background: var(--blanco); min-width: 0; }
+.plato-foto { position: relative; aspect-ratio: 4 / 5; background: var(--crema); border-bottom: 2px solid var(--negro); display: grid; place-items: center; }
+.plato-foto img { position: absolute; inset: 0; width: 100%; height: 100%; object-fit: cover; }
+.plato-foto img.sin-foto { position: static; width: 80px; height: 80px; opacity: .8; }
+.plato-precio { position: absolute; right: 10px; bottom: 10px; background: var(--rojo); color: var(--blanco); border: 2px solid var(--negro); border-radius: 12px;
+                padding: 6px 10px 4px; font: 400 1.7rem/1 var(--f-titulo); transform: rotate(-4deg); box-shadow: 3px 3px 0 var(--negro); font-variant-numeric: tabular-nums; }
+.plato-cuerpo { display: flex; flex-direction: column; gap: 6px; padding: 12px 14px 14px; }
+.plato h4 { margin: 0; font: 400 1.5rem/1 var(--f-titulo); }
+.plato p { font-size: .88rem; line-height: 1.4; color: var(--tinta-suave); }
+.plato-2 { font-size: .82rem; font-weight: 700; margin-top: 2px; }
+.plato-2 b { color: var(--rojo); }
 
 /* nosotros */
 .nosotros { display: grid; grid-template-columns: 1fr 1fr; gap: clamp(32px, 6vw, 80px); align-items: start; }
@@ -246,11 +268,9 @@ body::before { content: ""; position: fixed; inset: 0 0 auto; height: env(safe-a
 
 /* ---------- celular y tableta ---------- */
 @media (max-width: 960px) {
-  .portada-in { grid-template-columns: 1fr; padding-block: 36px 0; }
+  .portada-in { grid-template-columns: 1fr; padding-block: 110px 0; }
   .portada-txt { padding-bottom: 0; }
   .portada-arte { min-height: 420px; max-width: 520px; width: 100%; margin: 0 auto; }
-  .pizarron { grid-template-columns: 1fr; }
-  .columna + .columna { border-left: 0; border-top: 2px dashed rgba(238,241,232,.18); }
   .nosotros, .visita, .redes { grid-template-columns: 1fr; }
   .galeria { grid-template-columns: repeat(2, 1fr); grid-auto-rows: 220px; }
   .promesa:nth-child(2) { margin-left: 0; }
@@ -258,29 +278,29 @@ body::before { content: ""; position: fixed; inset: 0 0 auto; height: env(safe-a
 @media (max-width: 820px) {
   .barra-cta { display: none; }
   .barra-menu { display: flex; }
-  .barra-nav { display: none; position: absolute; top: 100%; left: 0; right: 0; flex-direction: column; gap: 2px; background: var(--blanco); border-bottom: var(--contorno);
-               padding: 10px max(20px, env(safe-area-inset-right, 0px)) 16px max(20px, env(safe-area-inset-left, 0px)); }
-  .barra-nav.abierto { display: flex; }
-  .barra-nav a { padding: 12px 14px; font-size: 1.1rem; }
+  .barra-in { padding-left: 18px; min-height: 60px; }
+  .barra-nav { display: flex; position: fixed; inset: 0; z-index: -1; flex-direction: column; justify-content: center; gap: 6px; margin: 0;
+               padding: 100px max(28px, env(safe-area-inset-left, 0px)) 40px; background: var(--verde-noche);
+               opacity: 0; visibility: hidden; transition: opacity .3s ease, visibility .3s; }
+  .barra-nav.abierto { opacity: 1; visibility: visible; }
+  .barra-nav a { font: 400 3.2rem/1 var(--f-titulo); padding: 10px 6px; color: var(--crema-claro); border-radius: 0; }
+  .barra-nav a.activo { color: var(--dorado); }
+  .barra-marca { display: none; }
+  .barra-nav.abierto a { animation: subir .45s cubic-bezier(.2, .9, .3, 1.2) both; }
+  .barra-nav.abierto a:nth-child(3) { animation-delay: .05s; } .barra-nav.abierto a:nth-child(4) { animation-delay: .1s; }
+  .barra-nav.abierto a:nth-child(5) { animation-delay: .15s; } .barra-nav.abierto a:nth-child(6) { animation-delay: .2s; }
 }
-@media (max-width: 640px) {
-  .sabores { display: flex; overflow-x: auto; scroll-snap-type: x mandatory; gap: 16px; padding: 4px 4px 18px; margin-inline: -4px;
-             scrollbar-width: thin; -webkit-overflow-scrolling: touch; }
-  .sabor { flex: 0 0 78%; scroll-snap-align: start; }
-  .sabor:hover { transform: none; box-shadow: var(--sombra); }
-  .sabores-pista { display: flex; justify-content: center; gap: 8px; margin-top: 4px; }
-}
-.sabores-pista { display: none; }
-.sabores-pista i { width: 8px; height: 8px; border-radius: 50%; background: var(--crema); border: 1.5px solid var(--negro); }
-.sabores-pista i.on { background: var(--verde); width: 22px; border-radius: 999px; }
 @media (max-width: 480px) {
   .galeria { grid-auto-rows: 170px; gap: 12px; }
   .foto-grande { grid-row: span 2; }
-  .barra-logo img { width: 140px; }
+  .barra-logo img { width: 128px; }
   .portada-arte { min-height: 360px; }
   .globo { font-size: 1.35rem; }
-  .columna { padding: 30px 22px; }
-  .pizarron { outline-offset: -10px; outline-width: 4px; }
+  .cat-platos { grid-template-columns: 1fr 1fr; gap: 12px; padding: 14px; }
+  .cat > summary { padding: 14px 16px; gap: 10px; }
+  .plato h4 { font-size: 1.2rem; }
+  .plato p { display: none; }
+  .plato-precio { font-size: 1.35rem; }
   .mitad, .resena { border-radius: 22px; }
   .btn { width: 100%; }
   .acciones { width: 100%; }

diff --git a/js/sitio.js b/js/sitio.js
@@ -4,17 +4,38 @@
   var d = document;
   d.documentElement.classList.add('js');
 
-  // Menú en celular
-  var boton = d.getElementById('botonMenu'), nav = d.getElementById('nav');
-  if (boton && nav) {
-    boton.addEventListener('click', function () {
-      var abierto = nav.classList.toggle('abierto');
-      boton.setAttribute('aria-expanded', String(abierto));
-      boton.setAttribute('aria-label', abierto ? 'Cerrar menú' : 'Abrir menú');
-    });
-    nav.addEventListener('click', function (e) {
-      if (e.target.closest('a')) { nav.classList.remove('abierto'); boton.setAttribute('aria-expanded', 'false'); }
-    });
+  // Barra flotante: se compacta al bajar un poco, se esconde al seguir bajando y vuelve en cuanto subes
+  var barra = d.getElementById('barra'), boton = d.getElementById('botonMenu'), nav = d.getElementById('nav');
+  var ultimoY = window.scrollY, abierto = false;
+  function alDesplazar() {
+    var y = window.scrollY;
+    barra.classList.toggle('compacta', y > 40);
+    if (!abierto) barra.classList.toggle('escondida', y > 320 && y > ultimoY + 4);
+    if (y < ultimoY - 4 || y < 320) barra.classList.remove('escondida');
+    ultimoY = y;
+  }
+  window.addEventListener('scroll', alDesplazar, { passive: true });
+  barra.addEventListener('focusin', function () { barra.classList.remove('escondida'); });
+
+  // Menú en celular: pantalla completa
+  function menu(abrir) {
+    abierto = abrir;
+    nav.classList.toggle('abierto', abrir);
+    boton.setAttribute('aria-expanded', String(abrir));
+    boton.setAttribute('aria-label', abrir ? 'Cerrar menú' : 'Abrir menú');
+    d.body.style.overflow = abrir ? 'hidden' : '';
+  }
+  boton.addEventListener('click', function () { menu(!abierto); });
+  nav.addEventListener('click', function (e) { if (e.target.closest('a') && abierto) menu(false); });
+  d.addEventListener('keydown', function (e) { if (e.key === 'Escape' && abierto) { menu(false); boton.focus(); } });
+
+  // Indicador dorado que se desliza a la sección activa
+  var marca = d.getElementById('barraMarca');
+  function moverMarca(a) {
+    if (!marca || !a) { if (marca) marca.style.opacity = '0'; return; }
+    marca.style.left = a.offsetLeft + 'px';
+    marca.style.width = a.offsetWidth + 'px';
+    marca.style.opacity = '1';
   }
 
   // Tarjetas de sabor: tocar = ver en taco o en cemita
@@ -50,15 +71,19 @@
 
   // Sección activa en la barra
   var enlaces = Array.prototype.slice.call(d.querySelectorAll('.barra-nav a'));
+  var inicio = d.getElementById('inicio');
   if ('IntersectionObserver' in window) {
     var secciones = enlaces.map(function (a) { return d.querySelector(a.getAttribute('href')); }).filter(Boolean);
     var vista = new IntersectionObserver(function (es) {
       es.forEach(function (e) {
         if (!e.isIntersecting) return;
-        enlaces.forEach(function (a) { a.classList.toggle('activo', a.getAttribute('href') === '#' + e.target.id); });
+        var activo = null;
+        enlaces.forEach(function (a) { var es = a.getAttribute('href') === '#' + e.target.id; a.classList.toggle('activo', es); if (es) activo = a; });
+        moverMarca(activo);
       });
     }, { rootMargin: '-45% 0px -50% 0px' });
     secciones.forEach(function (s) { vista.observe(s); });
+    if (inicio) new IntersectionObserver(function (es) { if (es[0].isIntersecting) { enlaces.forEach(function (a) { a.classList.remove('activo'); }); moverMarca(null); } }, { rootMargin: '-45% 0px -50% 0px' }).observe(inicio);
 
     // Aparecer al bajar: solo lo que todavía no está en pantalla
     var reducir = window.matchMedia && window.matchMedia('(prefers-reduced-motion: reduce)').matches;
@@ -68,7 +93,7 @@
           if (e.isIntersecting) { e.target.classList.remove('oculto'); obs.unobserve(e.target); }
         });
       }, { rootMargin: '0px 0px -8% 0px' });
-      d.querySelectorAll('.seccion-cab, .sabor, .mitad, .pizarron, .nosotros-txt, .promesa, .visita-datos, .mapa, .redes > *, .foto').forEach(function (el, i) {
+      d.querySelectorAll('.seccion-cab, .sabor, .mitad, .pizarron, .nosotros-txt, .promesa, .visita-datos, .mapa, .redes > *, .foto, .cat').forEach(function (el, i) {
         el.classList.add('revelar');
         if (el.getBoundingClientRect().top > window.innerHeight) {
           el.classList.add('oculto');
